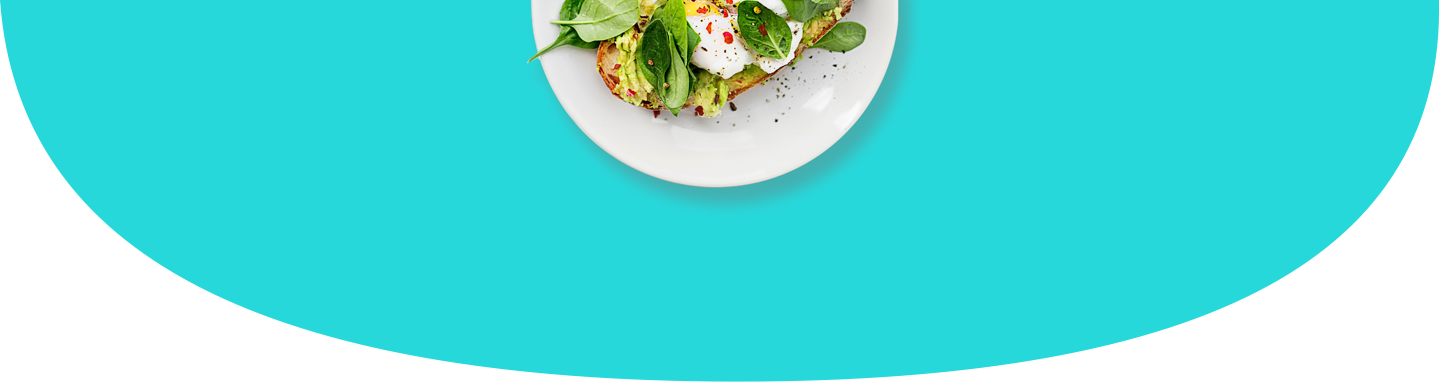
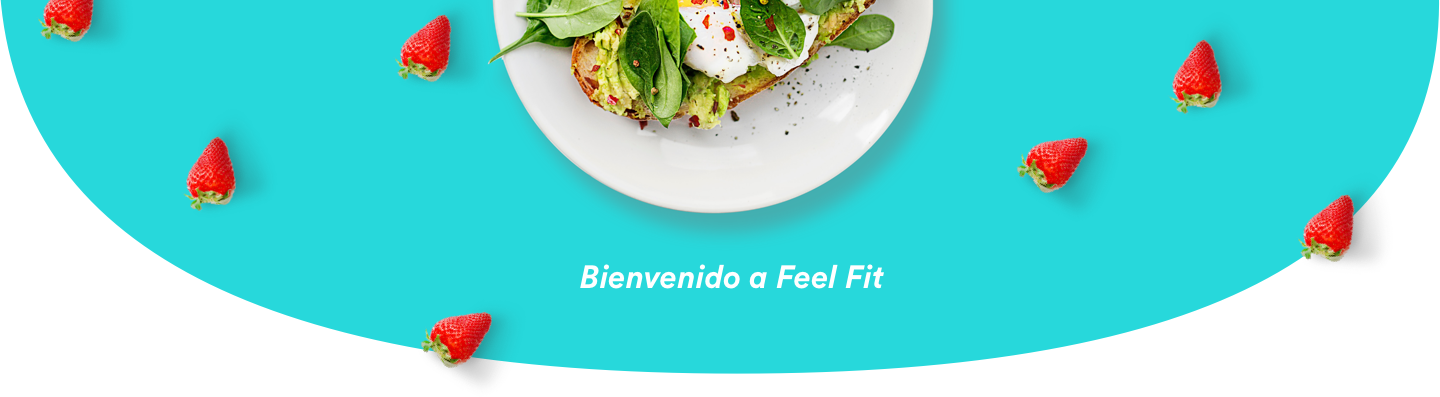
email welcome

diff --git a/resources/views/emails/users/wellcome.blade.php b/resources/views/emails/users/wellcome.blade.php
@@ -6,7 +6,6 @@
             <td class="header">
                 <div class="content-header">
                     <img src="{{asset('img/welcome/bg.png')}}" width="100%"/>
-                    <h1 class="titulo-welcome" >Bienvenido a Feel Fit</h1>
                 </div>
             </td>
         </tr>
